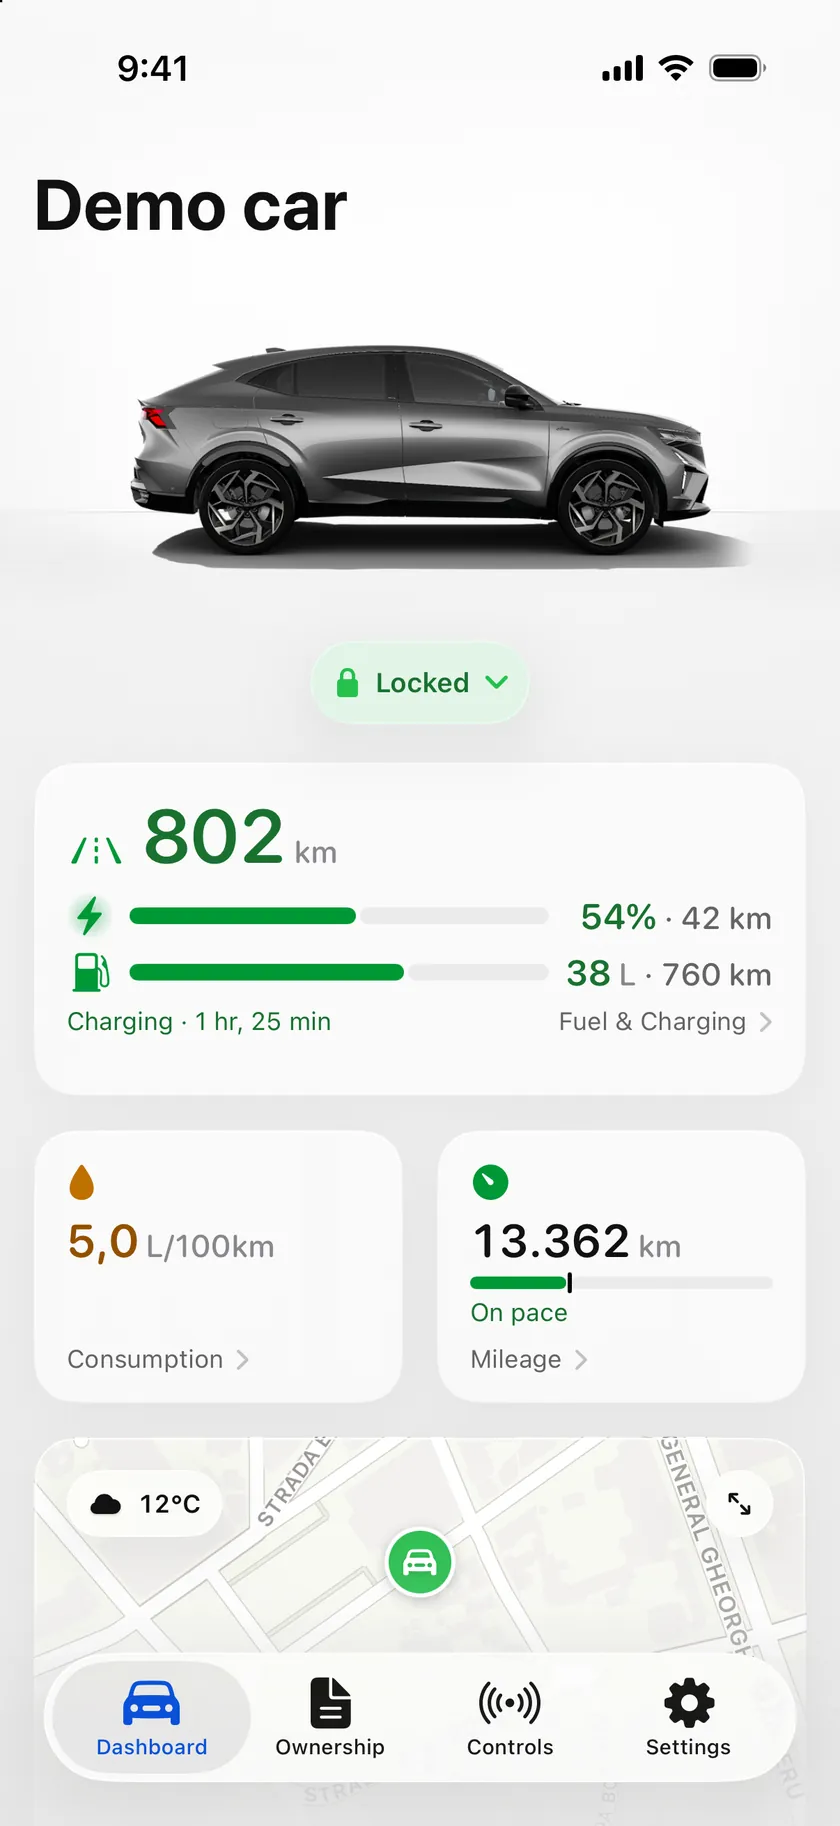
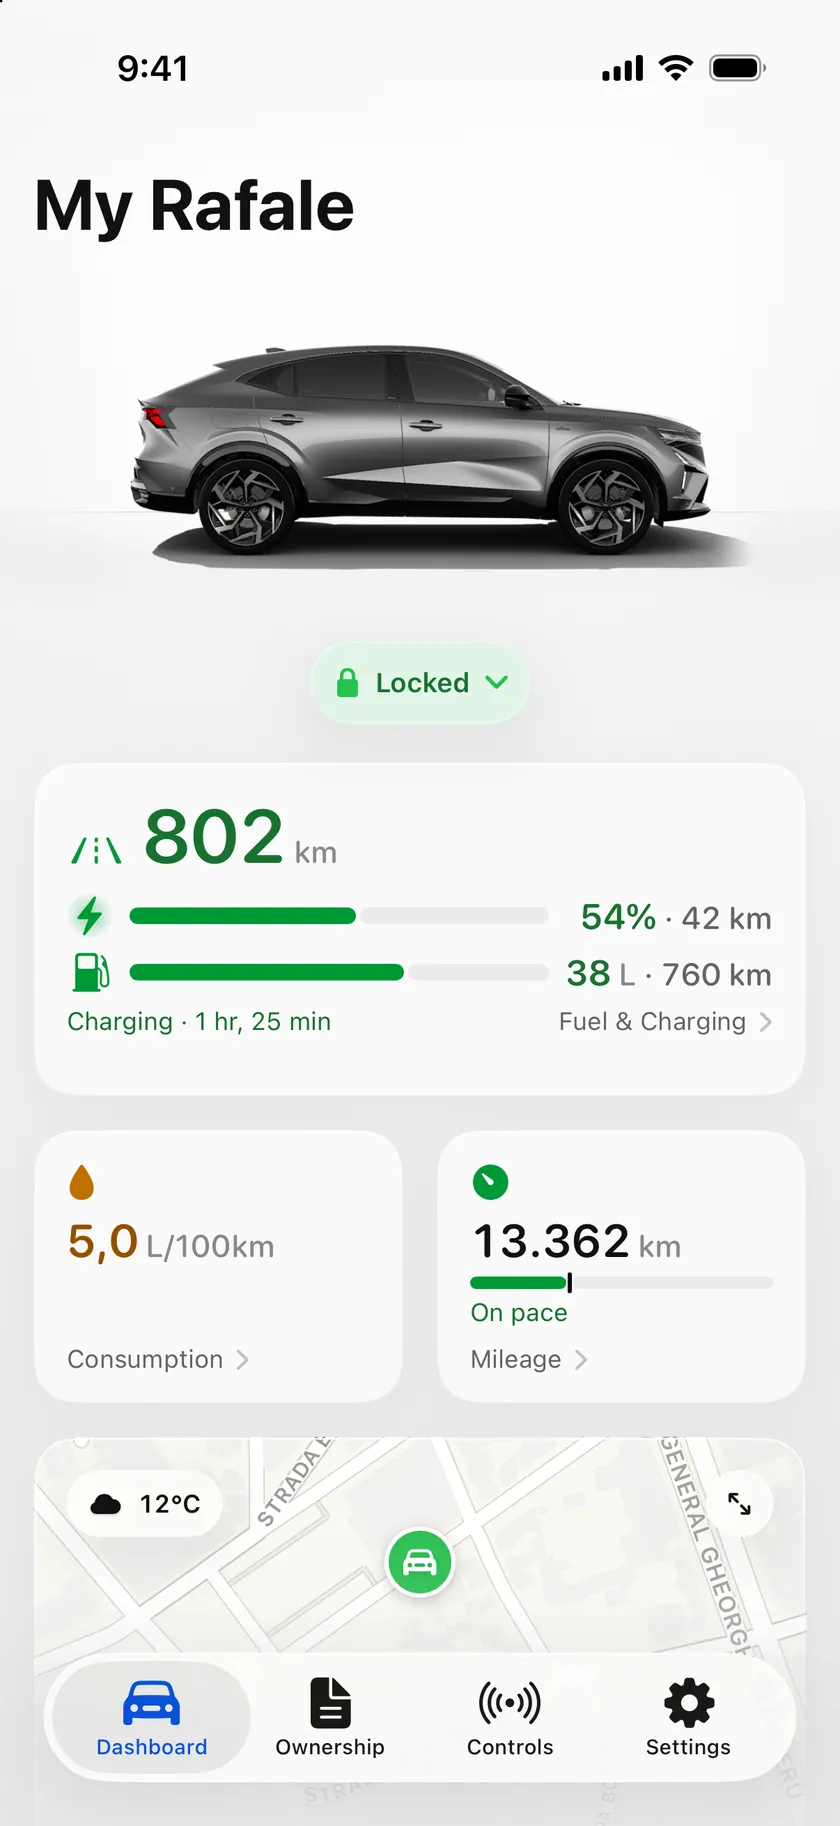
Riviera page: the screens show the car as "My Rafale" (Dashboard, map pin, widgets, Themes), footnote 1 updated

Changed region(s): [[0.031, 0.0936, 0.4333, 0.1561]]

diff --git a/index.html b/index.html
@@ -925,13 +925,13 @@
       <a href="#main">Back to top</a>
     </div>
     <ol class="notes">
-      <li id="fn1">Screens use the app’s demo car with fictional figures, a Renault Rafale plug-in hybrid shown with Renault’s picture of that model. They are shown in English with Romanian region settings, kilometres and euros. Riviera follows your language, units (miles included) and currency. Once you sign in, Riviera shows your own car’s name and picture. The demo car you can try in the app is named “Demo car”. The Apple TV picture shows the same car, with US number and time formats.</li>
+      <li id="fn1">Screens show a fictional car named “My Rafale”, a Renault Rafale plug-in hybrid with fictional figures, shown with Renault’s picture of that model. They are shown in English with Romanian region settings, kilometres and euros. Riviera follows your language, units (miles included) and currency. Once you sign in, Riviera shows your own car’s name and picture. Without an account, you can try the app with the same car, named “Demo car”. The Apple TV picture shows the same car under that name, with US number and time formats.</li>
       <li id="fn2">Riviera is free: no ads, no subscription and no paid features. Renault’s connected services are separate and may have their own terms.</li>
       <li id="fn3">Readings come from Renault’s servers and can arrive late or be missing.</li>
       <li id="fn4">Elsewhere, station locations appear without prices. Prices in Italy are read too, but not yet verified.</li>
     </ol>
     <div class="legal">
-      <p>Riviera is an independent app. It is not affiliated with, endorsed by, or sponsored by Renault s.a.s. The demo car in the screenshots is shown with a picture of a Renault Rafale. Renault, Rafale and Austral are trademarks of Renault s.a.s., used here only to say which cars Riviera works with. Other product and company names are trademarks of their owners. Apple, iPhone, iCloud, Apple TV, Apple Maps, Shortcuts, Siri and TestFlight are trademarks of Apple Inc., registered in the U.S. and other countries and regions. App Store is a service mark of Apple Inc. Riviera is not made by, affiliated with, or endorsed by Apple Inc.</p>
+      <p>Riviera is an independent app. It is not affiliated with, endorsed by, or sponsored by Renault s.a.s. The car in the screenshots is shown with a picture of a Renault Rafale. Renault, Rafale and Austral are trademarks of Renault s.a.s., used here only to say which cars Riviera works with. Other product and company names are trademarks of their owners. Apple, iPhone, iCloud, Apple TV, Apple Maps, Shortcuts, Siri and TestFlight are trademarks of Apple Inc., registered in the U.S. and other countries and regions. App Store is a service mark of Apple Inc. Riviera is not made by, affiliated with, or endorsed by Apple Inc.</p>
       <p>Data credits: fuel prices in Germany from <a href="https://creativecommons.tankerkoenig.de">Tankerkönig</a> (<a href="https://creativecommons.org/licenses/by/4.0/">CC BY 4.0</a>) when you add your own free key; in Romania from <a href="https://monitorulpreturilor.info/">Monitorul Prețurilor Carburanților</a> (Consiliul Concurenței); in France from prix-carburants.gouv.fr (Ministère de l’Économie, Licence Ouverte 2.0); in Spain from geoportalgasolineras.es (Ministerio para la Transición Ecológica); in Austria from the E-Control Spritpreisrechner; in Italy from the Osservatorio Prezzi Carburanti (Ministero delle Imprese e del Made in Italy). Charger data from <a href="https://openchargemap.org">Open Charge Map</a> contributors (<a href="https://creativecommons.org/licenses/by/4.0/">CC BY 4.0</a>). Station, charger and dealer locations © <a href="https://www.openstreetmap.org/copyright">OpenStreetMap contributors</a> (ODbL). Weather data by <a href="https://open-meteo.com">Open-Meteo.com</a> (<a href="https://creativecommons.org/licenses/by/4.0/">CC BY 4.0</a>). Maps in the app: Apple Maps.</p>
       <p>© 2026 Ionuț Andrei Paraschiv · Last updated 19 November 2026</p>
     </div>
